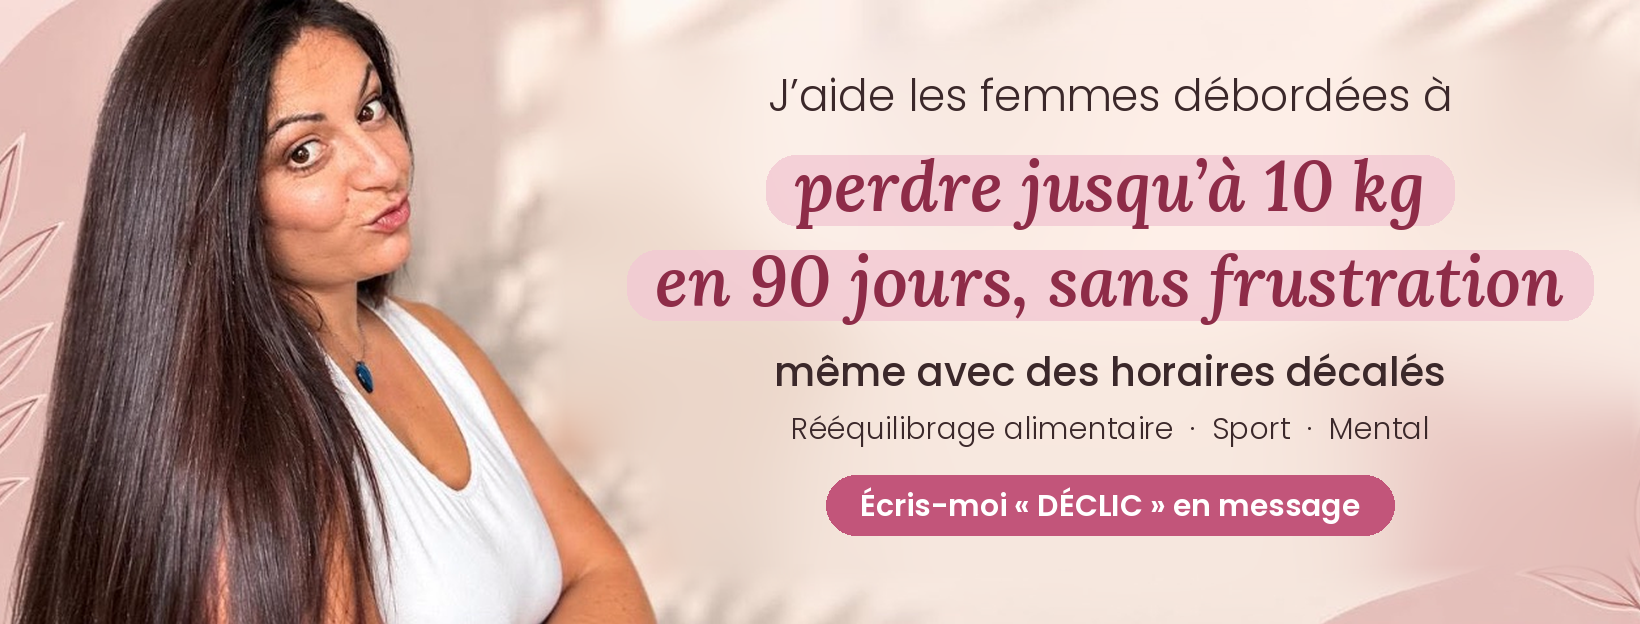
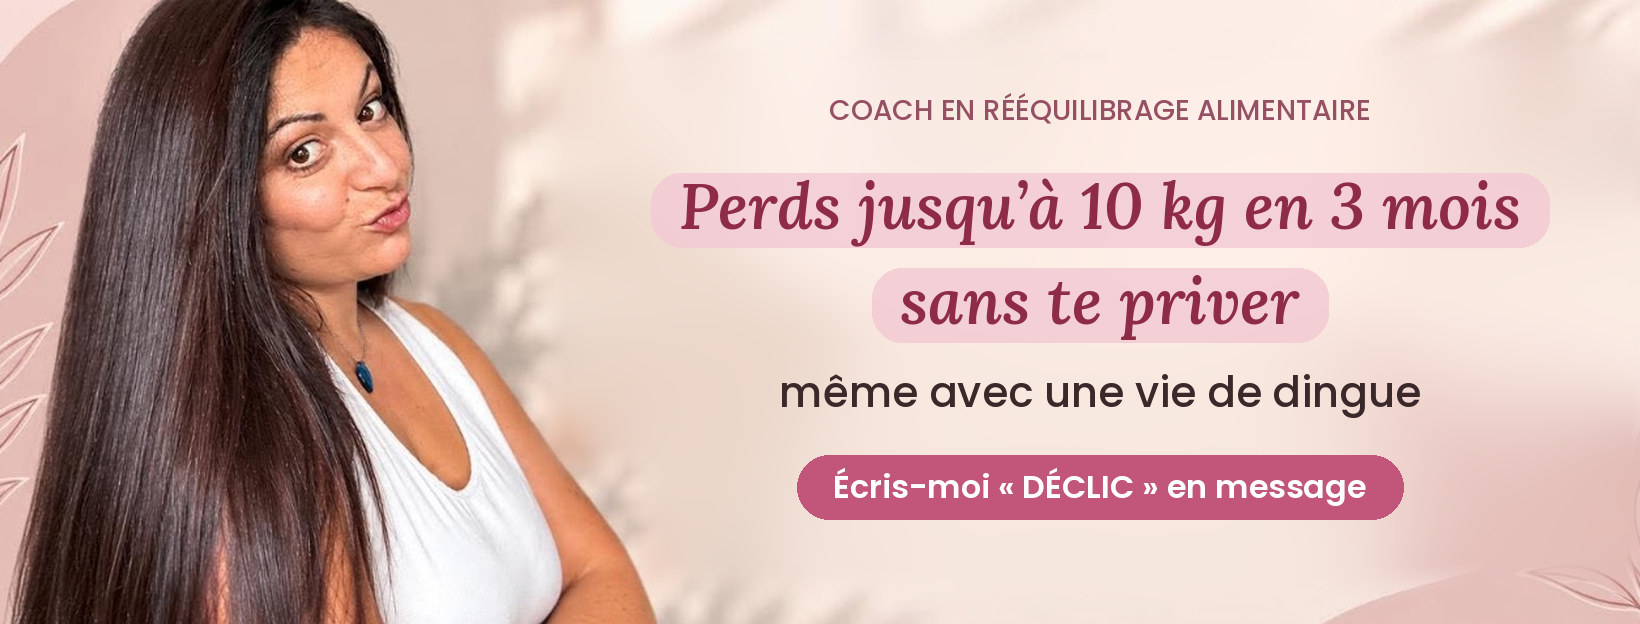
Couverture Facebook : texte amélioré
Claude-Session: https://claude.ai/code/session_01Qu7Kbk7XztmX7tXcsqwXcr

Changed region(s): [[0.3732, 0.2436, 0.9951, 0.5481], [0.4665, 0.5785, 0.9018, 0.883], [0.4665, 0.1218, 0.9018, 0.2131]]

diff --git a/scripts/couverture_facebook.py b/scripts/couverture_facebook.py
@@ -27,16 +27,15 @@ ban = Image.fromarray(cv2.cvtColor(a, cv2.COLOR_BGR2RGB))
 # 2. Mise au format 1640x624
 s = max(W / bw, H / bh); ban = ban.resize((int(bw * s) + 1, int(bh * s) + 1), Image.LANCZOS)
 canvas = ban.crop(((ban.width - W) // 2, (ban.height - H) // 2, (ban.width - W) // 2 + W, (ban.height - H) // 2 + H))
-d = ImageDraw.Draw(canvas, "RGBA"); cx = 1110
+d = ImageDraw.Draw(canvas, "RGBA"); cx = 1100
 def center(y, txt, f, col): d.text((cx, y), txt, font=f, fill=col, anchor="mm")
-center(95, "J’aide les femmes débordées à", P(300, 44), DARK)
-for y, t in [(185, "perdre jusqu’à 10 kg"), (280, "en 90 jours, sans frustration")]:
-    f = L(70); tw = d.textlength(t, font=f)
-    d.rounded_rectangle((cx - tw / 2 - 28, y - 30, cx + tw / 2 + 28, y + 40), 30, fill=PINKBRUSH)
+center(110, "COACH EN RÉÉQUILIBRAGE ALIMENTAIRE", P(500, 28), (150, 80, 100))
+for y, t in [(205, "Perds jusqu’à 10 kg en 3 mois"), (300, "sans te priver")]:
+    f = L(64); tw = d.textlength(t, font=f)
+    d.rounded_rectangle((cx - tw / 2 - 28, y - 32, cx + tw / 2 + 28, y + 42), 30, fill=PINKBRUSH)
     center(y, t, f, WINE)
-center(372, "même avec des horaires décalés", P(500, 40), DARK)
-center(428, "Rééquilibrage alimentaire  ·  Sport  ·  Mental", P(300, 30), DARK)
-btn = "Écris-moi « DÉCLIC » en message"; f = P(600, 30); tw = d.textlength(btn, font=f)
-d.rounded_rectangle((cx - tw / 2 - 34, 475, cx + tw / 2 + 34, 535), 30, fill=BTN)
-center(505, btn, f, (255, 255, 255))
+center(392, "même avec une vie de dingue", P(500, 42), DARK)
+btn = "Écris-moi « DÉCLIC » en message"; f = P(600, 32); tw = d.textlength(btn, font=f)
+d.rounded_rectangle((cx - tw / 2 - 36, 455, cx + tw / 2 + 36, 519), 32, fill=BTN)
+center(487, btn, f, (255, 255, 255))
 canvas.save(OUT)

diff --git a/CLAUDE.md b/CLAUDE.md
@@ -117,5 +117,5 @@ Règles des stories qui marchent (à appliquer) :
 | 24/11/2026 | **Messages nouveaux abonnés** (bienvenue ×3 variantes, puis problématique, je creuse, valeur, important et urgent, appel, relances) | `fiches/messages_nouveaux_abonnes.html` | DIVERS PERSO → Google Doc « Messages nouveaux abonnés (bienvenue → appel) » |
 | 25/11/2026 (mercredi) | **Stories « Sur moi », version pro** (7 stories natives : « Pourquoi il ne faut pas faire de régime strict pour perdre du poids », soignante, sondage, ma méthode, CTA DÉCLIC). Une 1re version trop perso a été refusée. | `contenus/2026-11-25_stories_mercredi_sur_moi/` (générateur réutilisable : `scripts/stories_natif.py` + `contenu.py`) | Montage perso → « Stories Mercredi sur moi (25-11) » |
 | 24/11/2026 | **Script YouTube « Tu as TOUT essayé pour perdre du poids ? Voici la VRAIE raison »** (hook, 5 raisons, vendre sans vendre, CTA, titre, miniature, description, chapitres, 6 MOFU repérés 🎬) | `scripts_videos/youtube_tout_essaye_vraie_raison.html` | Vidéo YouTube → Google Doc « Script YouTube – Tu as TOUT essayé ? » |
-| 24/11/2026 | **8 MOFU option C** tirés de la vidéo YouTube « Pourquoi ton régime ne fonctionne pas et ce n'est pas ta faute » (reçue par WeTransfer, sous-titres incrustés d'origine retirés par recadrage) | `contenus/2026-11-24_mofu_video_regime/` (vidéos non versionnées, trop lourdes ; recette : `recette_montage.sh`, outil : `scripts/mofu.py`) | Pas sur le Drive (fichiers > 3 Mo) : envoyés dans le chat |
-| 24/11/2026 | **Couverture Facebook** 1640x624 (même photo et décor qu'avant, nouveau texte : « J'aide les femmes débordées à perdre jusqu'à 10 kg en 90 jours, sans frustration, même avec des horaires décalés » + bouton « Écris-moi DÉCLIC en message »). Polices Poppins + Lora italique dans `modeles/fonts/`. | `contenus/2026-11-24_couverture_facebook/` (script : `scripts/couverture_facebook.py`) | Montage perso → « Couverture Facebook (24-11).png » |
+| 24/11/2026 | **8 MOFU option C** tirés de la vidéo YouTube « Pourquoi ton régime ne fonctionne pas et ce n'est pas ta faute » (reçue par WeTransfer, sous-titres incrustés d'origine retirés par recadrage) | `contenus/2026-11-24_mofu_video_regime/` (vidéos sauvegardées dans le dépôt ; recette : `recette_montage.sh`, outil : `scripts/mofu.py`) | Pas sur le Drive (fichiers > 3 Mo) : envoyés dans le chat |
+| 24/11/2026 | **Couverture Facebook** 1640x624 (même photo et décor qu'avant, texte v2 : « COACH EN RÉÉQUILIBRAGE ALIMENTAIRE / Perds jusqu'à 10 kg en 3 mois / sans te priver / même avec une vie de dingue » + bouton « Écris-moi DÉCLIC en message », repris de sa version courte de promesse dans « Offre Oser se choisir »). Polices Poppins + Lora italique dans `modeles/fonts/`. | `contenus/2026-11-24_couverture_facebook/` (script : `scripts/couverture_facebook.py`) | Montage perso → « Couverture Facebook (24-11).png » |
